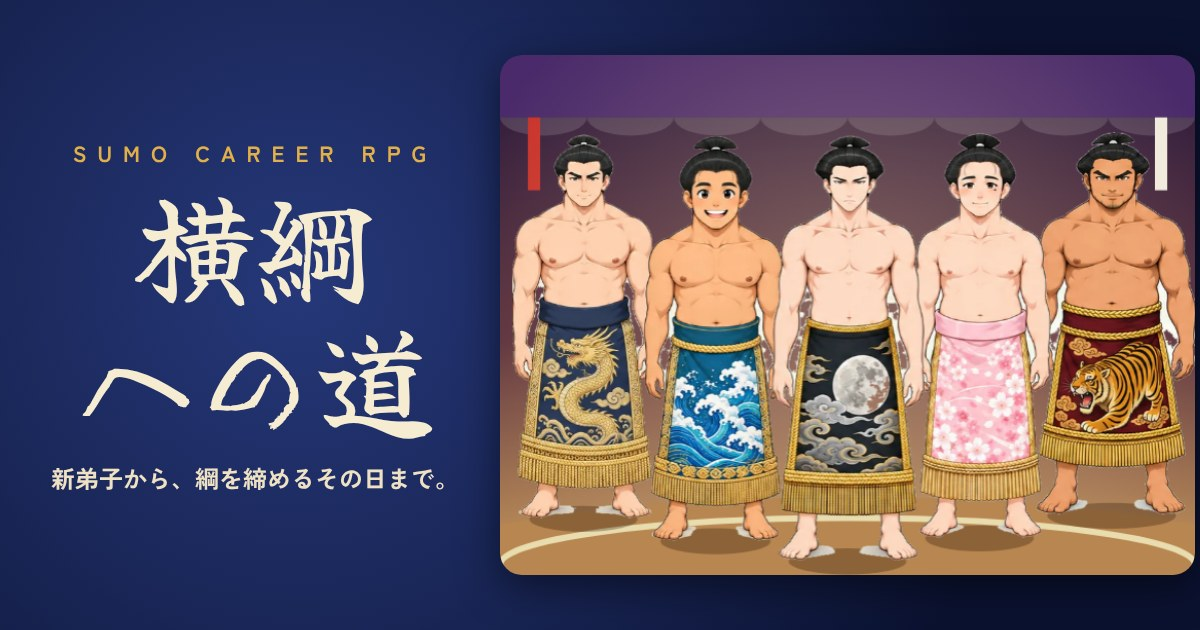
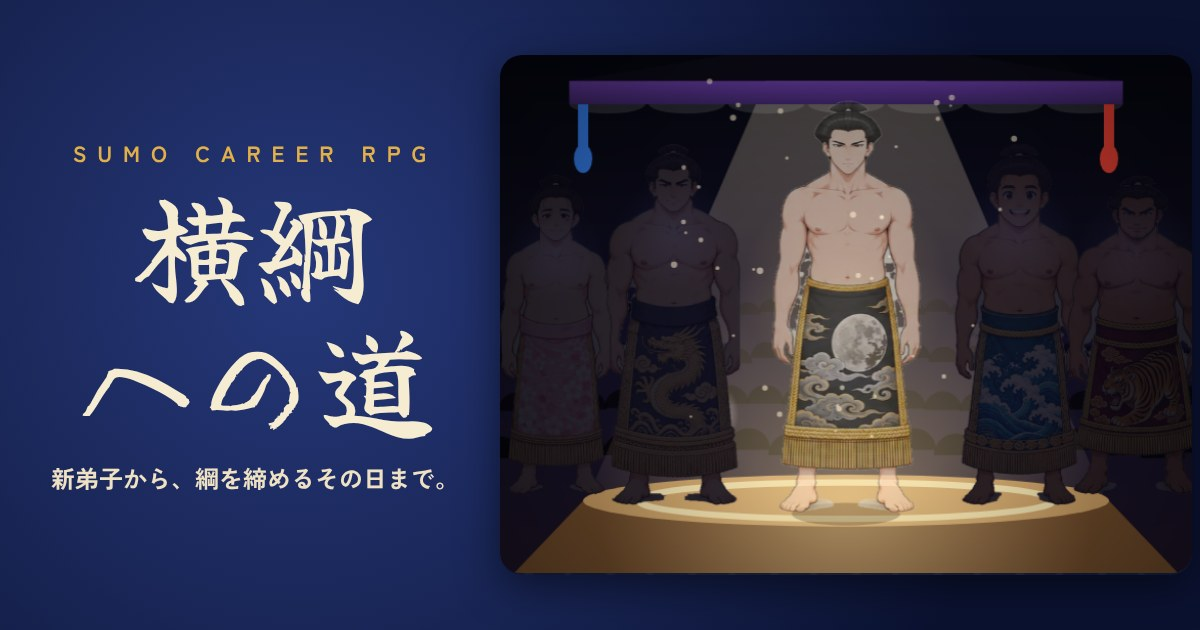
Title key visual: spotlit night arena with featured rikishi and silhouettes
Claude-Session: https://claude.ai/code/session_01LRwTUjaBDYofzxHAka3SEM

diff --git a/sumo-rpg/game.html b/sumo-rpg/game.html
@@ -1220,21 +1220,49 @@ function renderTitle(){
   show('sTitle');hero=makeCanvas($('heroCv'),.75);
 }
 /* title: a commemorative group photo of the cast in their kesho-mawashi */
+/* title key visual: night Kokugikan, spotlight on the dohyo; one featured rikishi
+   at a time (cross-fading through the cast), the others as backlit silhouettes */
+const SIL=new Map();
+function silhouette(im){if(SIL.has(im))return SIL.get(im);const c=document.createElement('canvas');c.width=im.naturalWidth;c.height=im.naturalHeight;const x=c.getContext('2d');
+  x.drawImage(im,0,0);x.globalCompositeOperation='source-atop';x.fillStyle='rgba(10,8,22,.86)';x.fillRect(0,0,c.width,c.height);SIL.set(im,c);return c;}
+let heroDust=[];
 function drawGroupPhoto(t){
   const cast=(window.AI_CAST||[]).map(c=>BODY['b_'+c.id+'_4']).filter(b=>b&&b.img.complete&&b.img.naturalWidth);
-  if(cast.length<2)return false;const{g,W,H}=hero;
-  const bg=g.createLinearGradient(0,0,0,H);bg.addColorStop(0,'#2b1a3e');bg.addColorStop(.55,'#5a2f3c');bg.addColorStop(1,'#c99a5b');g.fillStyle=bg;g.fillRect(0,0,W,H);
-  // purple curtain with gold tassels, like the tsuriyane
-  g.fillStyle='#4a2a6a';g.fillRect(0,0,W,H*.12);g.fillStyle='rgba(255,255,255,.14)';for(let x=0;x<W;x+=W/8){g.beginPath();g.ellipse(x+W/16,H*.12,W/16,H*.035,0,0,Math.PI);g.fill();}
-  g.fillStyle='#c8322b';g.fillRect(W*.04,H*.12,6,H*.14);g.fillStyle='#f1ece0';g.fillRect(W*.96-6,H*.12,6,H*.14);
-  softSpot(g,W/2,H*.55,W*.6,'255,225,170',.35);
-  g.fillStyle='#b88650';g.beginPath();g.ellipse(W/2,H*.98,W*.62,H*.13,0,0,6.283);g.fill();
-  g.strokeStyle='#e9dcae';g.lineWidth=H*.012;g.beginPath();g.ellipse(W/2,H*.98,W*.5,H*.09,0,0,6.283);g.stroke();
-  // centre character in front, the rest fanned out behind
-  const n=cast.length,order=[...cast.keys()].sort((a,b)=>Math.abs(a-(n-1)/2)-Math.abs(b-(n-1)/2)).reverse();
-  for(const i of order){const im=cast[i].img,off=i-(n-1)/2,front=1-Math.abs(off)/(n);const h=H*(.62+.2*front),w=h*im.naturalWidth/im.naturalHeight;
-    const x=W/2+off*W*.19,y=H*.97-Math.abs(off)*H*.04+Math.sin(t*1.4+i)*1.2;
-    g.fillStyle='rgba(40,20,5,.3)';g.beginPath();g.ellipse(x,y,w*.38,H*.025,0,0,6.283);g.fill();g.drawImage(im,x-w/2,y-h,w,h);}
+  if(cast.length<2)return false;const{g,W,H}=hero;const n=cast.length;
+  // arena darkness with tiers of spectators
+  const bg=g.createLinearGradient(0,0,0,H);bg.addColorStop(0,'#05060f');bg.addColorStop(.6,'#120f24');bg.addColorStop(1,'#1d1426');g.fillStyle=bg;g.fillRect(0,0,W,H);
+  for(let row=0;row<4;row++){const y=H*(.5+row*.09),r=W*.018*(1+row*.25);g.fillStyle='rgba(0,0,0,'+(.35+row*.12)+')';
+    for(let x=-r;x<W+r;x+=r*1.9){g.beginPath();g.arc(x+(row%2)*r,y+Math.sin(x*.7+row)*r*.2,r,Math.PI,0);g.fill();}}
+  // camera flashes in the stands
+  for(let i=0;i<7;i++){const ph=(t*.7+i*.37)%1;if(ph<.06){const fx=(Math.sin(i*91.7)*.5+.5)*W,fy=H*(.48+.3*((i*.618)%1));softSpot(g,fx,fy,W*.05,'255,255,255',.9*(1-ph/.06));}}
+  // spotlight cone
+  g.save();g.globalCompositeOperation='lighter';const cone=g.createLinearGradient(0,0,0,H);cone.addColorStop(0,'rgba(255,236,190,.28)');cone.addColorStop(1,'rgba(255,214,150,.04)');
+  g.fillStyle=cone;g.beginPath();g.moveTo(W*.4,0);g.lineTo(W*.6,0);g.lineTo(W*.92,H);g.lineTo(W*.08,H);g.fill();g.restore();
+  // hanging roof (tsuriyane) with purple curtain and the four coloured tassels
+  g.fillStyle='#0b0a16';g.beginPath();g.moveTo(W*.1,H*.05);g.lineTo(W*.5,-H*.04);g.lineTo(W*.9,H*.05);g.fill();
+  const cu=g.createLinearGradient(0,H*.05,0,H*.1);cu.addColorStop(0,'#5d3692');cu.addColorStop(1,'#35205a');g.fillStyle=cu;g.fillRect(W*.1,H*.05,W*.8,H*.045);g.fillStyle='rgba(255,255,255,.12)';for(let i=0;i<7;i++){g.beginPath();g.ellipse(W*(.155+i*.115),H*.095,W*.055,H*.018,0,0,Math.PI);g.fill();}
+  for(const [x,c] of [[.12,'#2f6fd0'],[.88,'#d03a2f']]){g.fillStyle=c;g.fillRect(W*x-2.5,H*.095,5,H*.1);g.beginPath();g.ellipse(W*x,H*.2,4.5,7,0,0,6.283);g.fill();}
+  // raised clay dohyo in perspective with the straw ring
+  const dy=H*.86;g.fillStyle='#6e4a2a';g.beginPath();g.moveTo(W*.02,H);g.lineTo(W*.12,dy);g.lineTo(W*.88,dy);g.lineTo(W*.98,H);g.fill();
+  g.fillStyle='#c79b62';g.beginPath();g.ellipse(W/2,dy,W*.38,H*.05,0,0,6.283);g.fill();
+  g.strokeStyle='#efe0b0';g.lineWidth=H*.012;g.beginPath();g.ellipse(W/2,dy,W*.3,H*.035,0,0,6.283);g.stroke();
+  softSpot(g,W/2,dy,W*.36,'255,230,170',.45);
+  // featured rikishi rotates every 4 seconds
+  const per=4,k=Math.floor(t/per)%n,f=(t%per)/per,fade=f<.12?f/.12:f>.88?(1-f)/.12:1;
+  // backlit silhouettes of the others behind
+  const others=[...cast.keys()].filter(i=>i!==k);
+  others.forEach((i,j)=>{const im=cast[i].img,side=j%2?1:-1,rank=Math.floor(j/2),h=H*(.7-rank*.08),w=h*im.naturalWidth/im.naturalHeight;
+    const x=W/2+side*W*(.25+rank*.17),y=dy+H*.01-rank*H*.02;g.drawImage(silhouette(im),x-w/2,y-h,w,h);
+    g.save();g.globalCompositeOperation='lighter';softSpot(g,x,y-h*.75,w*.45,'120,140,255',.08);g.restore();});
+  // the featured one: lit, slightly larger, rim glow
+  const im=cast[k].img,h=H*.8,w=h*im.naturalWidth/im.naturalHeight,x=W/2,y=dy+H*.03+Math.sin(t*1.4)*1.2;
+  g.save();g.globalAlpha=fade;softSpot(g,x,y-h*.55,w*.7,'255,215,140',.35);
+  g.fillStyle='rgba(30,15,5,.4)';g.beginPath();g.ellipse(x,y,w*.36,H*.022,0,0,6.283);g.fill();g.drawImage(im,x-w/2,y-h,w,h);g.restore();
+  // floating dust in the light
+  if(heroDust.length<40&&!REDUCED)heroDust.push({x:W*(.25+Math.random()*.5),y:H*(.2+Math.random()*.7),v:rnd(3,9),p:Math.random()*6,r:rnd(.6,1.6)});
+  g.fillStyle='rgba(255,240,210,.55)';heroDust=heroDust.filter(d=>{d.y-=d.v*.016;d.x+=Math.sin(t+d.p)*.15;g.beginPath();g.arc(d.x,d.y,d.r,0,6.283);g.fill();return d.y>H*.05;});
+  // vignette
+  const vg=g.createRadialGradient(W/2,H*.55,H*.3,W/2,H*.55,W*.75);vg.addColorStop(0,'rgba(0,0,0,0)');vg.addColorStop(1,'rgba(0,0,0,.55)');g.fillStyle=vg;g.fillRect(0,0,W,H);
   return true;}
 function drawHero(t){
   if(!hero)return;if(drawGroupPhoto(t))return;const{g,W,H}=hero;const sc=drawScene(g,W,H,0);const u=H*.15;

diff --git a/sumo-rpg/index.html b/sumo-rpg/index.html
@@ -1227,21 +1227,49 @@ function renderTitle(){
   show('sTitle');hero=makeCanvas($('heroCv'),.75);
 }
 /* title: a commemorative group photo of the cast in their kesho-mawashi */
+/* title key visual: night Kokugikan, spotlight on the dohyo; one featured rikishi
+   at a time (cross-fading through the cast), the others as backlit silhouettes */
+const SIL=new Map();
+function silhouette(im){if(SIL.has(im))return SIL.get(im);const c=document.createElement('canvas');c.width=im.naturalWidth;c.height=im.naturalHeight;const x=c.getContext('2d');
+  x.drawImage(im,0,0);x.globalCompositeOperation='source-atop';x.fillStyle='rgba(10,8,22,.86)';x.fillRect(0,0,c.width,c.height);SIL.set(im,c);return c;}
+let heroDust=[];
 function drawGroupPhoto(t){
   const cast=(window.AI_CAST||[]).map(c=>BODY['b_'+c.id+'_4']).filter(b=>b&&b.img.complete&&b.img.naturalWidth);
-  if(cast.length<2)return false;const{g,W,H}=hero;
-  const bg=g.createLinearGradient(0,0,0,H);bg.addColorStop(0,'#2b1a3e');bg.addColorStop(.55,'#5a2f3c');bg.addColorStop(1,'#c99a5b');g.fillStyle=bg;g.fillRect(0,0,W,H);
-  // purple curtain with gold tassels, like the tsuriyane
-  g.fillStyle='#4a2a6a';g.fillRect(0,0,W,H*.12);g.fillStyle='rgba(255,255,255,.14)';for(let x=0;x<W;x+=W/8){g.beginPath();g.ellipse(x+W/16,H*.12,W/16,H*.035,0,0,Math.PI);g.fill();}
-  g.fillStyle='#c8322b';g.fillRect(W*.04,H*.12,6,H*.14);g.fillStyle='#f1ece0';g.fillRect(W*.96-6,H*.12,6,H*.14);
-  softSpot(g,W/2,H*.55,W*.6,'255,225,170',.35);
-  g.fillStyle='#b88650';g.beginPath();g.ellipse(W/2,H*.98,W*.62,H*.13,0,0,6.283);g.fill();
-  g.strokeStyle='#e9dcae';g.lineWidth=H*.012;g.beginPath();g.ellipse(W/2,H*.98,W*.5,H*.09,0,0,6.283);g.stroke();
-  // centre character in front, the rest fanned out behind
-  const n=cast.length,order=[...cast.keys()].sort((a,b)=>Math.abs(a-(n-1)/2)-Math.abs(b-(n-1)/2)).reverse();
-  for(const i of order){const im=cast[i].img,off=i-(n-1)/2,front=1-Math.abs(off)/(n);const h=H*(.62+.2*front),w=h*im.naturalWidth/im.naturalHeight;
-    const x=W/2+off*W*.19,y=H*.97-Math.abs(off)*H*.04+Math.sin(t*1.4+i)*1.2;
-    g.fillStyle='rgba(40,20,5,.3)';g.beginPath();g.ellipse(x,y,w*.38,H*.025,0,0,6.283);g.fill();g.drawImage(im,x-w/2,y-h,w,h);}
+  if(cast.length<2)return false;const{g,W,H}=hero;const n=cast.length;
+  // arena darkness with tiers of spectators
+  const bg=g.createLinearGradient(0,0,0,H);bg.addColorStop(0,'#05060f');bg.addColorStop(.6,'#120f24');bg.addColorStop(1,'#1d1426');g.fillStyle=bg;g.fillRect(0,0,W,H);
+  for(let row=0;row<4;row++){const y=H*(.5+row*.09),r=W*.018*(1+row*.25);g.fillStyle='rgba(0,0,0,'+(.35+row*.12)+')';
+    for(let x=-r;x<W+r;x+=r*1.9){g.beginPath();g.arc(x+(row%2)*r,y+Math.sin(x*.7+row)*r*.2,r,Math.PI,0);g.fill();}}
+  // camera flashes in the stands
+  for(let i=0;i<7;i++){const ph=(t*.7+i*.37)%1;if(ph<.06){const fx=(Math.sin(i*91.7)*.5+.5)*W,fy=H*(.48+.3*((i*.618)%1));softSpot(g,fx,fy,W*.05,'255,255,255',.9*(1-ph/.06));}}
+  // spotlight cone
+  g.save();g.globalCompositeOperation='lighter';const cone=g.createLinearGradient(0,0,0,H);cone.addColorStop(0,'rgba(255,236,190,.28)');cone.addColorStop(1,'rgba(255,214,150,.04)');
+  g.fillStyle=cone;g.beginPath();g.moveTo(W*.4,0);g.lineTo(W*.6,0);g.lineTo(W*.92,H);g.lineTo(W*.08,H);g.fill();g.restore();
+  // hanging roof (tsuriyane) with purple curtain and the four coloured tassels
+  g.fillStyle='#0b0a16';g.beginPath();g.moveTo(W*.1,H*.05);g.lineTo(W*.5,-H*.04);g.lineTo(W*.9,H*.05);g.fill();
+  const cu=g.createLinearGradient(0,H*.05,0,H*.1);cu.addColorStop(0,'#5d3692');cu.addColorStop(1,'#35205a');g.fillStyle=cu;g.fillRect(W*.1,H*.05,W*.8,H*.045);g.fillStyle='rgba(255,255,255,.12)';for(let i=0;i<7;i++){g.beginPath();g.ellipse(W*(.155+i*.115),H*.095,W*.055,H*.018,0,0,Math.PI);g.fill();}
+  for(const [x,c] of [[.12,'#2f6fd0'],[.88,'#d03a2f']]){g.fillStyle=c;g.fillRect(W*x-2.5,H*.095,5,H*.1);g.beginPath();g.ellipse(W*x,H*.2,4.5,7,0,0,6.283);g.fill();}
+  // raised clay dohyo in perspective with the straw ring
+  const dy=H*.86;g.fillStyle='#6e4a2a';g.beginPath();g.moveTo(W*.02,H);g.lineTo(W*.12,dy);g.lineTo(W*.88,dy);g.lineTo(W*.98,H);g.fill();
+  g.fillStyle='#c79b62';g.beginPath();g.ellipse(W/2,dy,W*.38,H*.05,0,0,6.283);g.fill();
+  g.strokeStyle='#efe0b0';g.lineWidth=H*.012;g.beginPath();g.ellipse(W/2,dy,W*.3,H*.035,0,0,6.283);g.stroke();
+  softSpot(g,W/2,dy,W*.36,'255,230,170',.45);
+  // featured rikishi rotates every 4 seconds
+  const per=4,k=Math.floor(t/per)%n,f=(t%per)/per,fade=f<.12?f/.12:f>.88?(1-f)/.12:1;
+  // backlit silhouettes of the others behind
+  const others=[...cast.keys()].filter(i=>i!==k);
+  others.forEach((i,j)=>{const im=cast[i].img,side=j%2?1:-1,rank=Math.floor(j/2),h=H*(.7-rank*.08),w=h*im.naturalWidth/im.naturalHeight;
+    const x=W/2+side*W*(.25+rank*.17),y=dy+H*.01-rank*H*.02;g.drawImage(silhouette(im),x-w/2,y-h,w,h);
+    g.save();g.globalCompositeOperation='lighter';softSpot(g,x,y-h*.75,w*.45,'120,140,255',.08);g.restore();});
+  // the featured one: lit, slightly larger, rim glow
+  const im=cast[k].img,h=H*.8,w=h*im.naturalWidth/im.naturalHeight,x=W/2,y=dy+H*.03+Math.sin(t*1.4)*1.2;
+  g.save();g.globalAlpha=fade;softSpot(g,x,y-h*.55,w*.7,'255,215,140',.35);
+  g.fillStyle='rgba(30,15,5,.4)';g.beginPath();g.ellipse(x,y,w*.36,H*.022,0,0,6.283);g.fill();g.drawImage(im,x-w/2,y-h,w,h);g.restore();
+  // floating dust in the light
+  if(heroDust.length<40&&!REDUCED)heroDust.push({x:W*(.25+Math.random()*.5),y:H*(.2+Math.random()*.7),v:rnd(3,9),p:Math.random()*6,r:rnd(.6,1.6)});
+  g.fillStyle='rgba(255,240,210,.55)';heroDust=heroDust.filter(d=>{d.y-=d.v*.016;d.x+=Math.sin(t+d.p)*.15;g.beginPath();g.arc(d.x,d.y,d.r,0,6.283);g.fill();return d.y>H*.05;});
+  // vignette
+  const vg=g.createRadialGradient(W/2,H*.55,H*.3,W/2,H*.55,W*.75);vg.addColorStop(0,'rgba(0,0,0,0)');vg.addColorStop(1,'rgba(0,0,0,.55)');g.fillStyle=vg;g.fillRect(0,0,W,H);
   return true;}
 function drawHero(t){
   if(!hero)return;if(drawGroupPhoto(t))return;const{g,W,H}=hero;const sc=drawScene(g,W,H,0);const u=H*.15;
